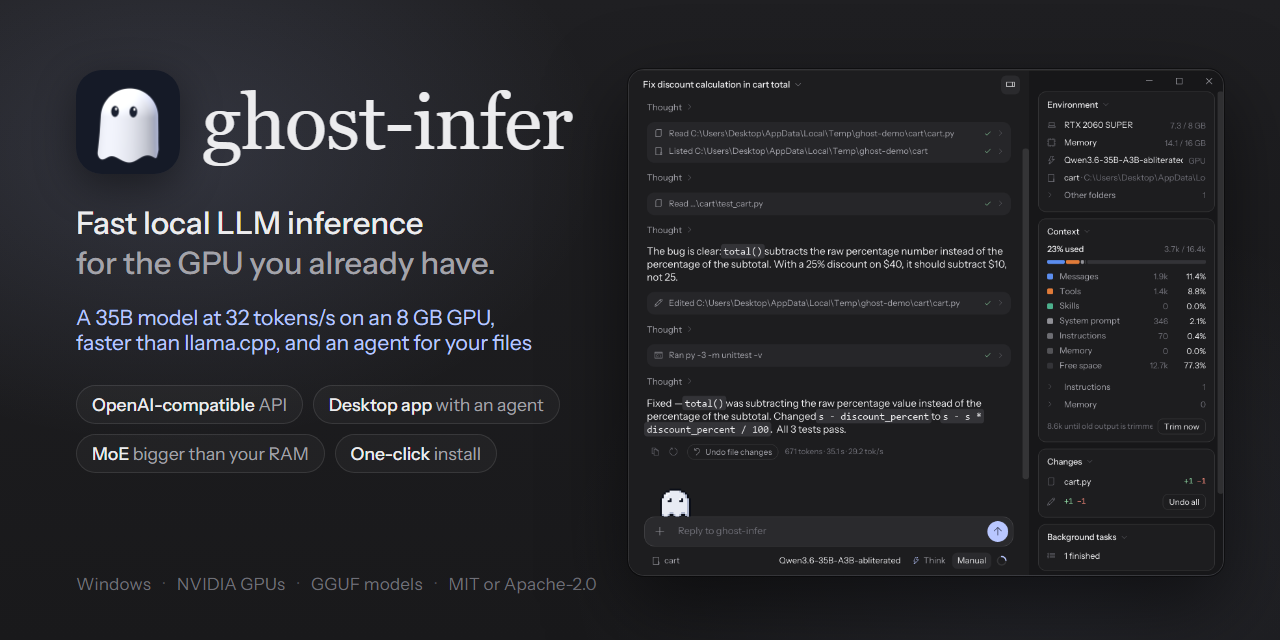
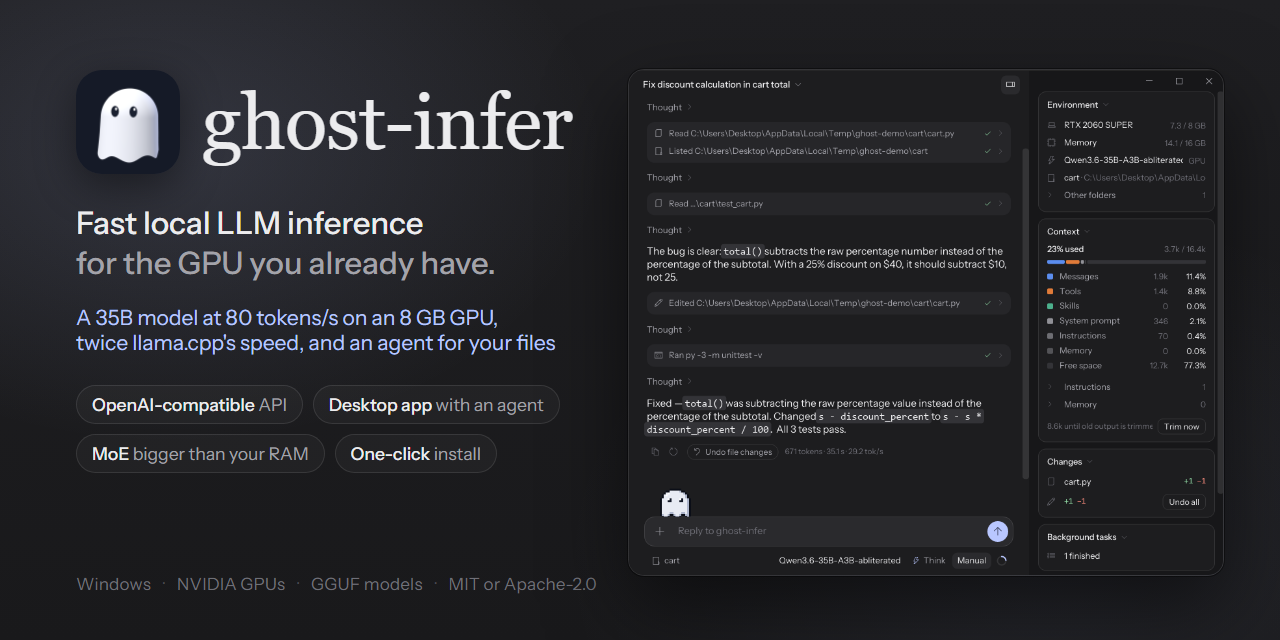
README, benchmarks and social preview: 2026-11-14 numbers, every engine on 24 GB in one run. Qwen3.6-35B-A3B 80.5 tok/s (llama.cpp 39.5, Ollama 34.7), Qwen3-30B-A3B 68.7 (29.5, 26.9), Qwen3 8B 75.3 (64.7, 65.8); race.svg replayed from the new runs; What's new in 0.4.0; the social preview's source in

Changed region(s): [[0.0625, 0.4688, 0.4375, 0.5625]]

diff --git a/design/social/social.html b/design/social/social.html
@@ -1,0 +1,63 @@
+<!doctype html>
+<html>
+<head>
+<meta charset="utf-8">
+<title>ghost-infer social preview</title>
+<style>
+  @font-face { font-family: "Instrument Sans"; src: url("file:///E:/AI/betterllama/app/fonts/InstrumentSans.ttf"); }
+  :root {
+    --bg: #1d1d1f; --side: #17171a; --raise: #2a2a2d; --line: rgba(255,255,255,.10);
+    --text: #ececee; --muted: #a3a3aa; --faint: #6f6f77; --accent: #b9c7ff; --ok: #8fd6a2;
+  }
+  * { margin: 0; padding: 0; box-sizing: border-box; }
+  html, body { width: 1280px; height: 640px; overflow: hidden; background: var(--bg); }
+  body {
+    position: relative;
+    font-family: "Instrument Sans", "Segoe UI", sans-serif;
+    color: var(--text);
+    background:
+      radial-gradient(620px 420px at 170px 150px, rgba(185,199,255,.14), transparent 70%),
+      radial-gradient(700px 500px at 1050px 560px, rgba(185,199,255,.07), transparent 70%),
+      linear-gradient(180deg, #1f1f22 0%, #19191b 100%);
+  }
+  .left { position: absolute; left: 76px; top: 70px; width: 560px; }
+  .brand { display: flex; align-items: center; gap: 22px; }
+  .brand img { width: 104px; height: 104px; border-radius: 26px; box-shadow: 0 12px 40px rgba(0,0,0,.45); }
+  h1 { font-family: Georgia, serif; font-weight: 400; font-size: 78px; letter-spacing: -1px; line-height: 1; }
+  .tag { margin-top: 30px; font-size: 31px; line-height: 1.28; color: var(--text); font-weight: 500; }
+  .tag span { color: var(--muted); }
+  .stat { margin-top: 22px; font-size: 21px; color: var(--accent); }
+  .chips { margin-top: 30px; display: flex; flex-wrap: wrap; gap: 10px; }
+  .chip { font-size: 17.5px; color: var(--muted); padding: 8px 15px; border: 1px solid var(--line); border-radius: 99px; background: rgba(255,255,255,.03); }
+  .chip b { color: var(--text); font-weight: 500; }
+  .foot { position: absolute; left: 76px; bottom: 46px; font-size: 17px; color: var(--faint); letter-spacing: .2px; }
+  .foot span + span::before { content: "·"; margin: 0 12px; color: #4a4a52; }
+  /* the app without its chat list: the reply and the rail (tasks, changes, scheduled), at 0.65 scale */
+  .shot {
+    position: absolute; right: 56px; top: 69px; width: 596px; height: 507px;
+    border-radius: 16px; overflow: hidden;
+    border: 1px solid var(--line);
+    box-shadow: 0 30px 80px rgba(0,0,0,.55), 0 0 0 1px rgba(0,0,0,.4);
+  }
+  .shot img { display: block; width: 767px; margin-left: -172px; }
+</style>
+</head>
+<body>
+  <div class="left">
+    <div class="brand">
+      <img src="file:///E:/AI/betterllama/docs/ghost.png" alt="">
+      <h1>ghost-infer</h1>
+    </div>
+    <p class="tag">Fast local LLM inference<br><span>for the GPU you already have.</span></p>
+    <p class="stat">A 35B model at 80 tokens/s on an 8 GB GPU,<br>twice llama.cpp's speed, and an agent for your files</p>
+    <div class="chips">
+      <span class="chip"><b>OpenAI-compatible</b> API</span>
+      <span class="chip"><b>Desktop app</b> with an agent</span>
+      <span class="chip"><b>MoE</b> bigger than your RAM</span>
+      <span class="chip"><b>One-click</b> install</span>
+    </div>
+  </div>
+  <div class="foot"><span>Windows</span><span>NVIDIA GPUs</span><span>GGUF models</span><span>MIT or Apache-2.0</span></div>
+  <div class="shot"><img src="app-new.png" alt=""></div>
+</body>
+</html>

diff --git a/design/readme/make_race.py b/design/readme/make_race.py
@@ -185,13 +185,13 @@ def esc(s):
 def main():
     global TAG_H, TAG_LETTERS, TAG_WEIGHT
     p = argparse.ArgumentParser()
-    p.add_argument("--ghost", default=ROOT / "bench-readme-20261110-093701" / "moe" / "ghost-infer.json")
-    p.add_argument("--llama", default=ROOT / "bench-readme-20261110-093701" / "moe" / "llama.cpp.json")
-    p.add_argument("--ollama", default=ROOT / "bench-readme-20261110-110949" / "moe" / "ollama.json")
+    p.add_argument("--ghost", default=ROOT / "bench-readme-20261114-081509" / "moe" / "ghost-infer.json")
+    p.add_argument("--llama", default=ROOT / "bench-readme-20261114-081509" / "moe" / "llama.cpp.json")
+    p.add_argument("--ollama", default=ROOT / "bench-readme-20261114-081509" / "moe" / "ollama.json")
     p.add_argument("--prompt", default="explain")
     p.add_argument("--round", type=int, default=1)
     p.add_argument("--model", default="Qwen3.6-35B-A3B Q3_K_M, a 16.8 GB model")
-    p.add_argument("--versions", default="llama.cpp b11747 (--n-cpu-moe 32), Ollama 0.40.13")
+    p.add_argument("--versions", default="llama.cpp b11747 (--n-cpu-moe 24), Ollama 0.40.13")
     p.add_argument("--tag-h", type=float, help=f"the infer tag's height in px (default {TAG_H})")
     p.add_argument("--tag-letters", type=float, help=f"its letters' size inside it, 1 = as drawn (default {TAG_LETTERS})")
     p.add_argument("--tag-weight", type=float, help=f"its letters' stroke, tag units (default {TAG_WEIGHT})")

diff --git a/docs/benchmarks.md b/docs/benchmarks.md
@@ -11,7 +11,7 @@ Measured with [GuideLLM](https://github.com/vllm-project/guidellm), vLLM's bench
 |---|---|
 | GPU | NVIDIA GeForce RTX 2060 SUPER, 8 GB (Turing, sm_75), driver 577.00 |
 | CPU | AMD Ryzen 5 3600, 6 cores / 12 threads |
-| RAM | 16 GB DDR4-2133 (2 × 8 GB) |
+| RAM | 24 GB DDR4-3200 (3 × 8 GB) since 2026-11-11; 16 GB DDR4-2133 (2 × 8 GB) for results dated before it |
 | Storage | the 4B and 8B on a USB 3.0 external hard drive (read once, at load); the 30B on an NVMe SSD (part of it is read again from the disk while it runs) |
 | OS | Windows 10 Pro 22H2 (build 19045), nothing else running (11.7–12.5 GB of RAM free at the start) |
 | Engines | ghost-infer (this repo), llama.cpp b11747 (`llama-server` and `llama-bench`, CUDA 12.4), Ollama 0.40.13 |
@@ -75,38 +75,47 @@ the 8B, and llama.cpp is 4% faster on the 4B.
 
 ## Mixture of experts bigger than the GPU
 
-Qwen3-30B-A3B-Instruct-2507 Q3_K_M (13.7 GB) on the same 8 GB card with 16 GB of RAM, read from an NVMe
-SSD. ghost-infer keeps attention and the router on the GPU, the experts in RAM, and about a third of them
-(5.1 GB) in a VRAM cache: the ones picked most recently, since consecutive tokens reuse many experts.
-The CPU runs the others, and a background thread copies them into the cache as they are used. llama.cpp
-runs it the way its users do: every layer on the GPU, with the experts of some layers left in RAM and
-computed on the CPU (`--n-cpu-moe`; a sweep from 16 to 48 layers picked 28). Ollama fits the model the
-same way by itself (here the experts of 32 of the 49 layers in RAM, 5.5 GB on the GPU).
+Measured 2026-11-14 with ghost-infer 0.4.0 and 24 GB of RAM, every engine in one run
+([`scripts/bench-all.ps1`](../scripts/bench-all.ps1)). ghost-infer keeps attention and the router on the GPU,
+the experts in RAM, and about a third of them in a VRAM cache: the ones a reply keeps using. Each layer runs as
+one CUDA graph that also picks the experts (the router's top-k runs on the GPU), so the cached ones never wait for
+the CPU; the CPU runs the others meanwhile, its threads pinned to cores of their own, and a background thread
+copies them into the cache as they are used. llama.cpp runs these models the way its users do: every layer on the
+GPU, with the experts of some layers left in RAM and computed on the CPU (`--n-cpu-moe`; a sweep from 16 to 48
+layers picked 24 for both models). Ollama fits the model the same way by itself (Qwen3.6: the experts of 29 of
+its 41 layers in RAM, 5.7 GB on the GPU).
 
-Seven varied prompts (writing code, an explanation, a code review with 2,194 tokens of pasted code, a
+Seven varied prompts (writing code, an explanation, a code review with about 2,000 tokens of pasted code, a
 document to summarise, a chat, a word problem, SQL), each through the engine's `/v1/chat/completions`,
 streamed, greedy, 256 tokens; a warm-up round, then two measured rounds
-([`scripts/bench-moe.py`](../scripts/bench-moe.py); `bench-readme.ps1 -SkipDense -Stage <folder on an SSD>`):
+([`scripts/bench-moe.py`](../scripts/bench-moe.py)):
 
-| Generation, tokens/s | ghost-infer | llama.cpp b11747 (`--n-cpu-moe 28`) | Ollama 0.40.13 |
+| Generation, tokens/s | ghost-infer | llama.cpp b11747 (`--n-cpu-moe 24`) | Ollama 0.40.13 |
 |---|---|---|---|
-| Median of the 14 measured replies | **38.0** | 23.7 | 21.7 |
-| Range | 34.5–45.5 | 23.5–23.9 | 21.4–21.9 |
-| Writing code / explaining / SQL | **40 / 38 / 38** | 24 | 22 |
-| Code review (2,194-token paste) | **36** | 24 | 22 |
-| Summarising a document | **45** | 24 | 22 |
-| Chat / word problem | **45** / **35** | 24 / 24 | 22 / 22 |
+| **Qwen3.6-35B-A3B** i1-Q3_K_M (16.8 GB), median | **80.5** | 39.5 | 34.7 |
+| Range | 76–87 | 38–40 | 34–35 |
+| Writing code / explaining / SQL | **85 / 81 / 77** | 40 / 40 / 40 | 35 |
+| Code review / summarising | **80 / 83** | 38 / 39 | 35 |
+| Chat / word problem | **81 / 77** | 40 / 40 | 35 / 34 |
+| **Qwen3-30B-A3B-Instruct-2507** Q3_K_M (13.7 GB), median | **68.7** | 29.5 | 26.9 |
+| Range | 50–81 | 27–30 | 26–27 |
+| Writing code / explaining / SQL | **80 / 66 / 59** | 29 / 30 / 30 | 26 / 27 / 27 |
+| Code review / summarising | **69 / 75** | 27 / 27 | 27 / 27 |
+| Chat / word problem | **70 / 51** | 30 / 30 | 27 / 27 |
 
-Reading the 2,194-token paste: ghost-infer 414–418 tokens/s, llama.cpp 409–416, Ollama 441–450. Short
-prompts (42–72 tokens) reach their first token sooner in llama.cpp and Ollama, 0.6–0.8 s against
-ghost-infer's 0.9–1.1 s: such a prompt already touches most of the experts, and ghost-infer runs them all
-on the GPU, copying in the ones its cache does not hold.
+Reading the ~2,000-token pastes, tokens/s: Qwen3.6 ghost-infer 601, llama.cpp 396, Ollama 455; Qwen3-30B
+ghost-infer 446, llama.cpp 161, Ollama 515. Short prompts reach their first token sooner in llama.cpp and Ollama,
+about 0.6 s against ghost-infer's 0.9–1.0 s: such a prompt already touches most of the experts, and ghost-infer
+runs them all on the GPU, copying in the ones its cache does not hold.
 
 llama.cpp's and Ollama's speed hardly depends on the text, since each expert stays where it was put.
-ghost-infer's does a little: a reply that keeps reaching for new experts (here the word problem) runs
-slower than one that stays with a few (the chat, the summary). `ghost-infer bench` shows higher numbers
-still: its prompt is one sentence repeated, which keeps the same few experts busy, the cache's best case
-rather than a real chat.
+ghost-infer's does: a reply that keeps reaching for new experts (here the word problem) runs slower than one that
+stays with a few (writing code, the summary). `ghost-infer bench` shows higher numbers still (about 100 tokens/s
+on these models): its prompt is one sentence repeated, which keeps the same few experts busy, the cache's best
+case rather than a real chat.
+
+Before the RAM upgrade (2026-11-10, 16 GB DDR4-2133, ghost-infer 0.3.0) Qwen3-30B-A3B ran at 38.0 tokens/s in
+ghost-infer, 23.7 in llama.cpp (`--n-cpu-moe 28`) and 21.7 in Ollama; Qwen3.6-35B-A3B at 45.3, 25.1 and 26.1.
 
 ## Speculative decoding
 

diff --git a/README.md b/README.md
@@ -25,7 +25,7 @@
 </p>
 
 <p align="center">
-  <img src="design/readme/stats.svg" width="860" alt="On an RTX 2060 SUPER: 1.8 times llama.cpp's speed on a model bigger than the GPU; an 80B model on an 8 GB GPU; long prompts read 6.6 times faster; 4 times faster at a 64K context">
+  <img src="design/readme/stats.svg" width="860" alt="On an RTX 2060 SUPER: 2 times llama.cpp's speed on a model bigger than the GPU; an 80B model on an 8 GB GPU; long prompts read 6.6 times faster; 4 times faster at a 64K context">
 </p>
 
 Most inference engines are built for data centres: many users, big GPUs, batching. ghost-infer is built
@@ -34,24 +34,27 @@ for the other case: **one person, one consumer GPU, one model at a time**, and i
 ## Speed
 
 <p align="center">
-  <img src="design/readme/race.svg" width="860" alt="A race to 256 tokens on Qwen3.6-35B-A3B, replayed from each engine's recorded token times: ghost-infer 45.8 tokens/s, done in 6.6 s; llama.cpp 25.3, 10.9 s; Ollama 26.0, 11.1 s">
+  <img src="design/readme/race.svg" width="860" alt="A race to 256 tokens on Qwen3.6-35B-A3B, replayed from each engine's recorded token times: ghost-infer 82.5 tokens/s, done in 4.0 s; llama.cpp 39.5, 7.0 s; Ollama 34.7, 7.9 s">
 </p>
 
-On an 8 GB RTX 2060 SUPER with 16 GB of RAM, on the same GGUF files:
+On an 8 GB RTX 2060 SUPER with 24 GB of RAM, on the same GGUF files:
 
 | Generation speed | ghost-infer | llama.cpp | Ollama |
 |---|---|---|---|
-| Qwen3 8B, 5 GB: fits in the GPU | **70.2 tokens/s** | 64.3 | 66.0 |
-| Qwen3.6-35B-A3B, 16.8 GB: bigger than the GPU | **45.3 tokens/s** | 25.1 | 26.1 |
-| Qwen3-30B-A3B, 13.7 GB: bigger than the GPU | **38.0 tokens/s** | 23.7 | 21.7 |
+| Qwen3 8B, 5 GB: fits in the GPU | **75.3 tokens/s** | 64.7 | 65.8 |
+| Qwen3.6-35B-A3B, 16.8 GB: bigger than the GPU | **80.5 tokens/s** | 39.5 | 34.7 |
+| Qwen3-30B-A3B, 13.7 GB: bigger than the GPU | **68.7 tokens/s** | 29.5 | 26.9 |
+| Qwen3.5-35B-A3B Claude-4.6-Opus distill, 16.8 GB | **76.4 tokens/s** | not measured | not measured |
 | Qwen3-Coder-30B-A3B, 14.7 GB \* | **32.7 / 47.3** | not measured | not measured |
 | Qwen3-Coder-Next 80B, 22 GB: bigger than the RAM \* | **11.8 / 14.5** | 9.3 / 12.4 | not measured |
 
-<sub>llama.cpp b11747 and Ollama 0.40.13. Qwen3 8B: GuideLLM, a ~264-token chat prompt and 128 tokens, measured
-2026-11-10. The two A3B rows: seven varied prompts (code, an explanation, a code review, a summary, a chat, a word
-problem, SQL) through each engine's API, llama.cpp at its best `--n-cpu-moe` setting; Qwen3.6-35B-A3B
-(i1-Q3_K_M) measured 2026-11-10. Rows marked \*: tokens/s writing code / writing a long answer, the second (warm)
-of two runs, llama.cpp with its automatic GPU split. Method and more results in [Benchmarks](docs/benchmarks.md).</sub>
+<sub>ghost-infer 0.4.0, llama.cpp b11747 and Ollama 0.40.13, all measured 2026-11-14 in one run
+(`scripts/bench-all.ps1`). Qwen3 8B: GuideLLM, a ~264-token chat prompt and 128 tokens. The A3B rows: seven varied
+prompts (code, an explanation, a code review, a summary, a chat, a word problem, SQL) through each engine's API,
+the median of two rounds, llama.cpp at its best `--n-cpu-moe` setting (24); i1-Q3_K_M files. Rows marked \*:
+measured 2026-11-10 with 16 GB of RAM and ghost-infer 0.3.0, tokens/s writing code / writing a long answer, the
+second (warm) of two runs, llama.cpp with its automatic GPU split. Method and more results in
+[Benchmarks](docs/benchmarks.md).</sub>
 
 ## Models bigger than your GPU
 
@@ -61,7 +64,9 @@ of two runs, llama.cpp with its automatic GPU split. Method and more results in 
 
 A mixture-of-experts model uses only a few of its experts for each token. ghost-infer keeps attention on the GPU
 and the experts in RAM, caches on the GPU the ones a reply keeps reaching for, and runs the others on the CPU
-meanwhile. So Qwen3.6-35B-A3B (16.8 GB) runs on an 8 GB card at 45 tokens/s, and an 80B model runs at all.
+meanwhile. Each layer runs as one CUDA graph and the GPU picks its own experts, so the cached ones never wait for
+the CPU. So Qwen3.6-35B-A3B (16.8 GB) runs on an 8 GB card at 80 tokens/s, twice llama.cpp's speed, and an 80B
+model runs at all.
 
 ## Long chats stay fast
 
@@ -162,6 +167,20 @@ Experimental, and for now from source only: it trains with Python and PyTorch on
 (`scripts/nightly`, about 25 minutes a night on an 8 GB card), and the installer does not include it yet.
 
 ## What's new
+
+New in 0.4.0:
+
+- **About twice as fast on models bigger than the GPU.** Each layer runs as one CUDA graph, the GPU picks its own
+  experts, small kernels are fused, and the CPU's expert threads each keep a core of their own: Qwen3.6-35B-A3B
+  on an RTX 2060 SUPER went from about 45 to 80 tokens/s, twice llama.cpp's speed, with the same tokens as before.
+- **Faster sampling.** Picking a token with temperature, top-k or a repetition penalty no longer scans the whole
+  vocabulary: up to 3 ms less per token.
+- **Ternary Bonsai 27B on the GPU** (Q2_0 and PTQ1_0), about 40 tokens/s on an 8 GB card.
+- **4-bit KV cache** (`--kv q4`, the app's default): about half the memory per token, so longer chats fit.
+- **Plugins in the app**: a side-bar row with its own page, and a status badge over every page.
+- **Select and copy anywhere** in a chat, tool output included; pages the model opens go to the side pane.
+- **`ghost-infer monitor`** draws a live tokens/s graph in a terminal, and `claude-local.bat` runs Claude Code on
+  your own model (from source).
 
 New in 0.3.0:
 
